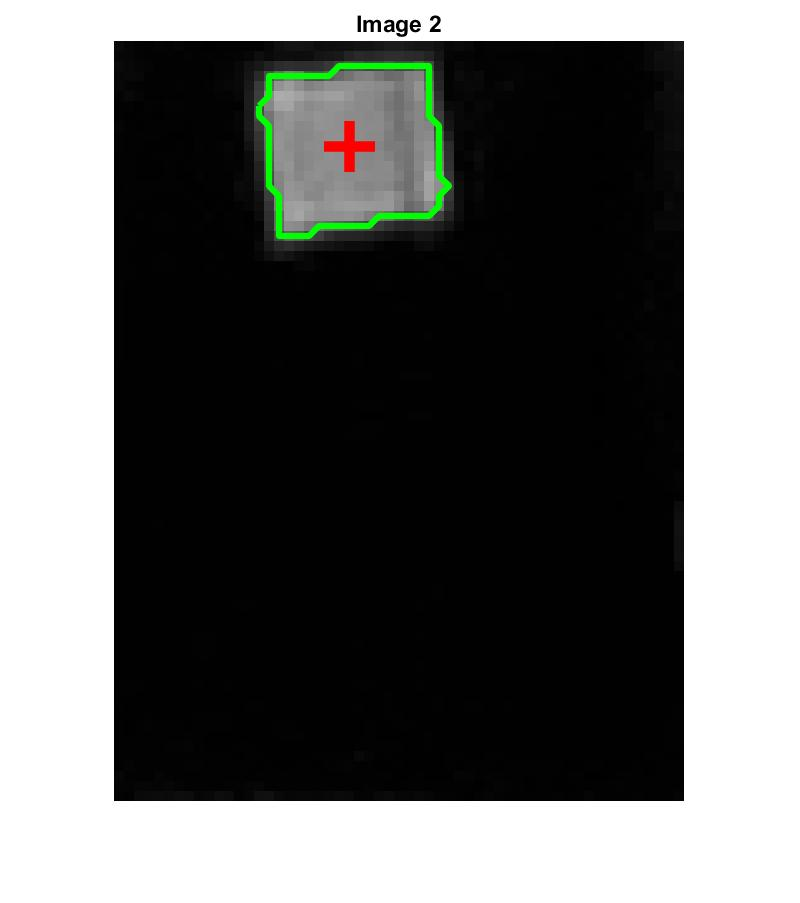
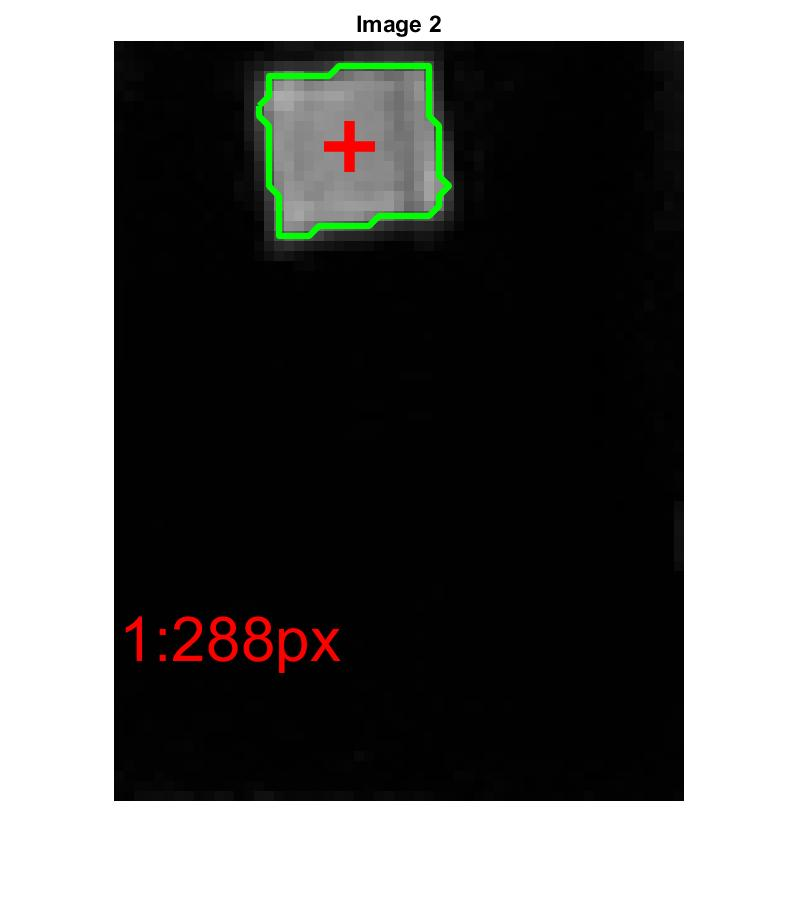
finished field test grayscale images

Changed region(s): [[0.1562, 0.6822, 0.4375, 0.7442]]

diff --git a/FindCentroid.m b/FindCentroid.m
@@ -28,9 +28,9 @@ for i=1:length(imageFiles)
         %%%% and geometric centroid overlaid
         if plotGrayscale == 1
             scatter(mean(b(:,2)),mean(b(:,1)),sz,'r','+','LineWidth',5);
-            str = num2str(j);
-            text(mean(b(:,2)),mean(b(:,1))+200,str,'Color','red',...
-                'FontSize',60);
+            %str = num2str(j);
+            %text(mean(b(:,2)),mean(b(:,1))+200,str,'Color','red',...
+            %    'FontSize',60);
             plot(b(:,2),b(:,1),'g','LineWidth',3);
         end
     end
